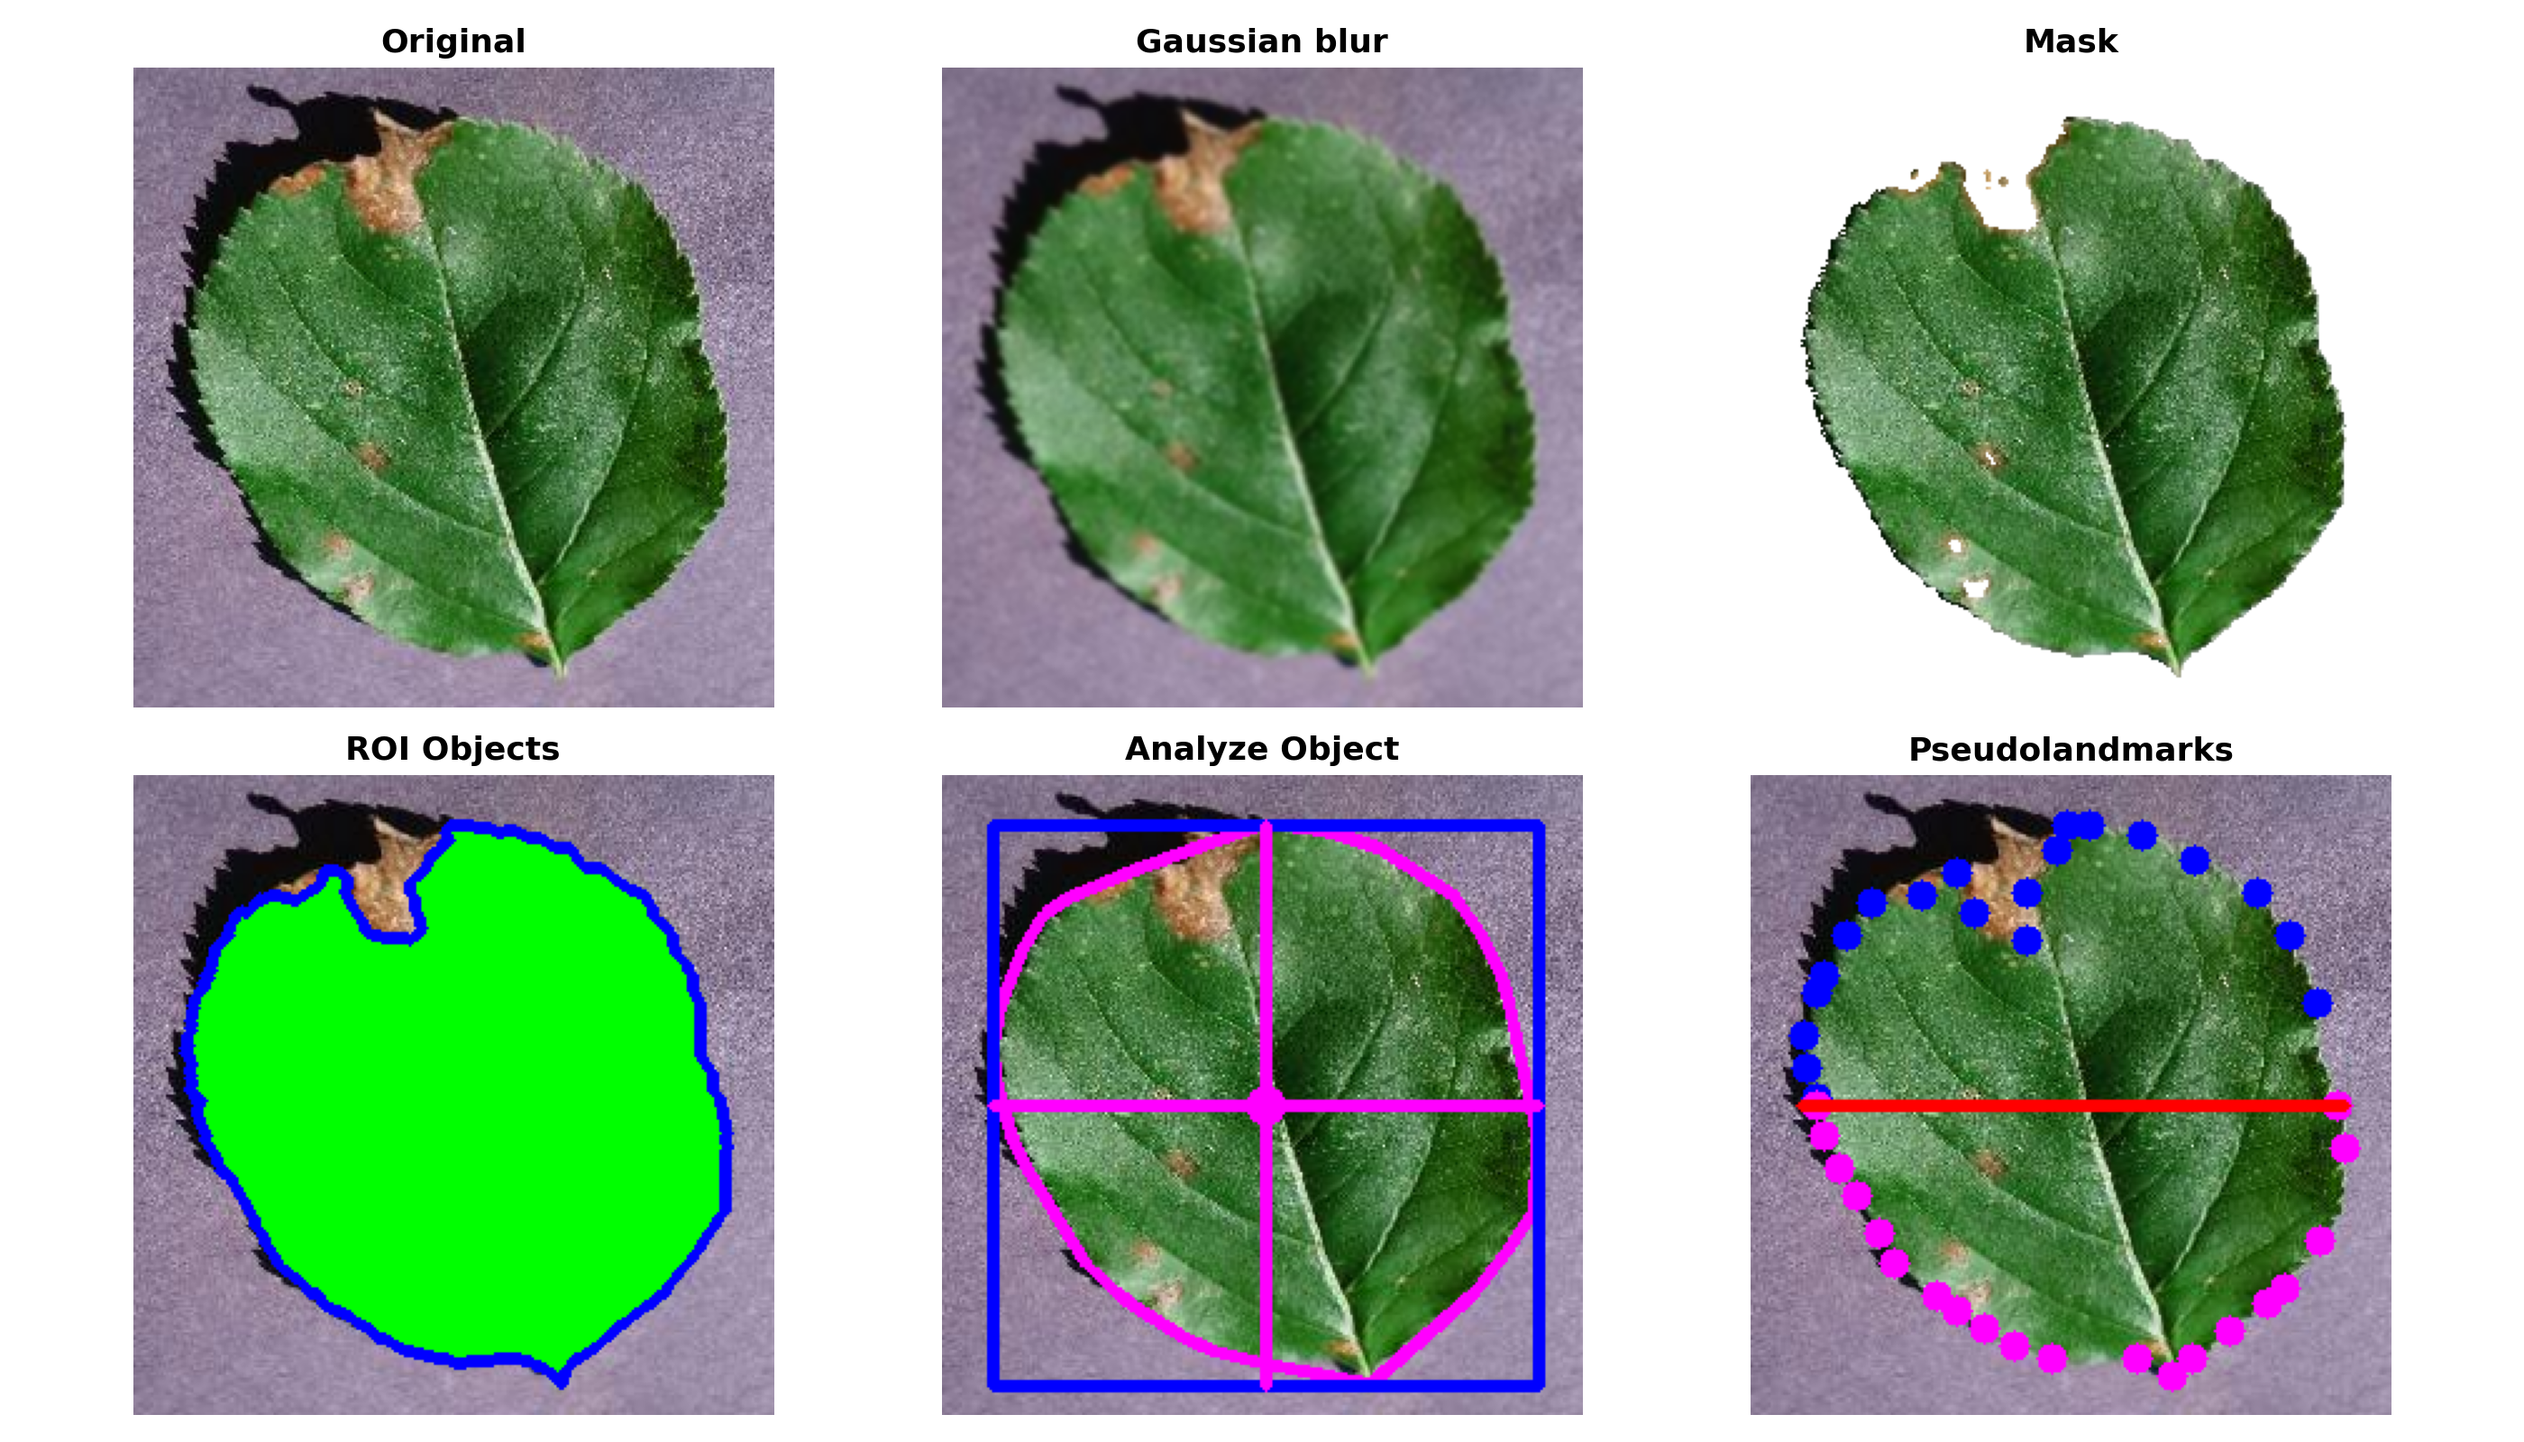
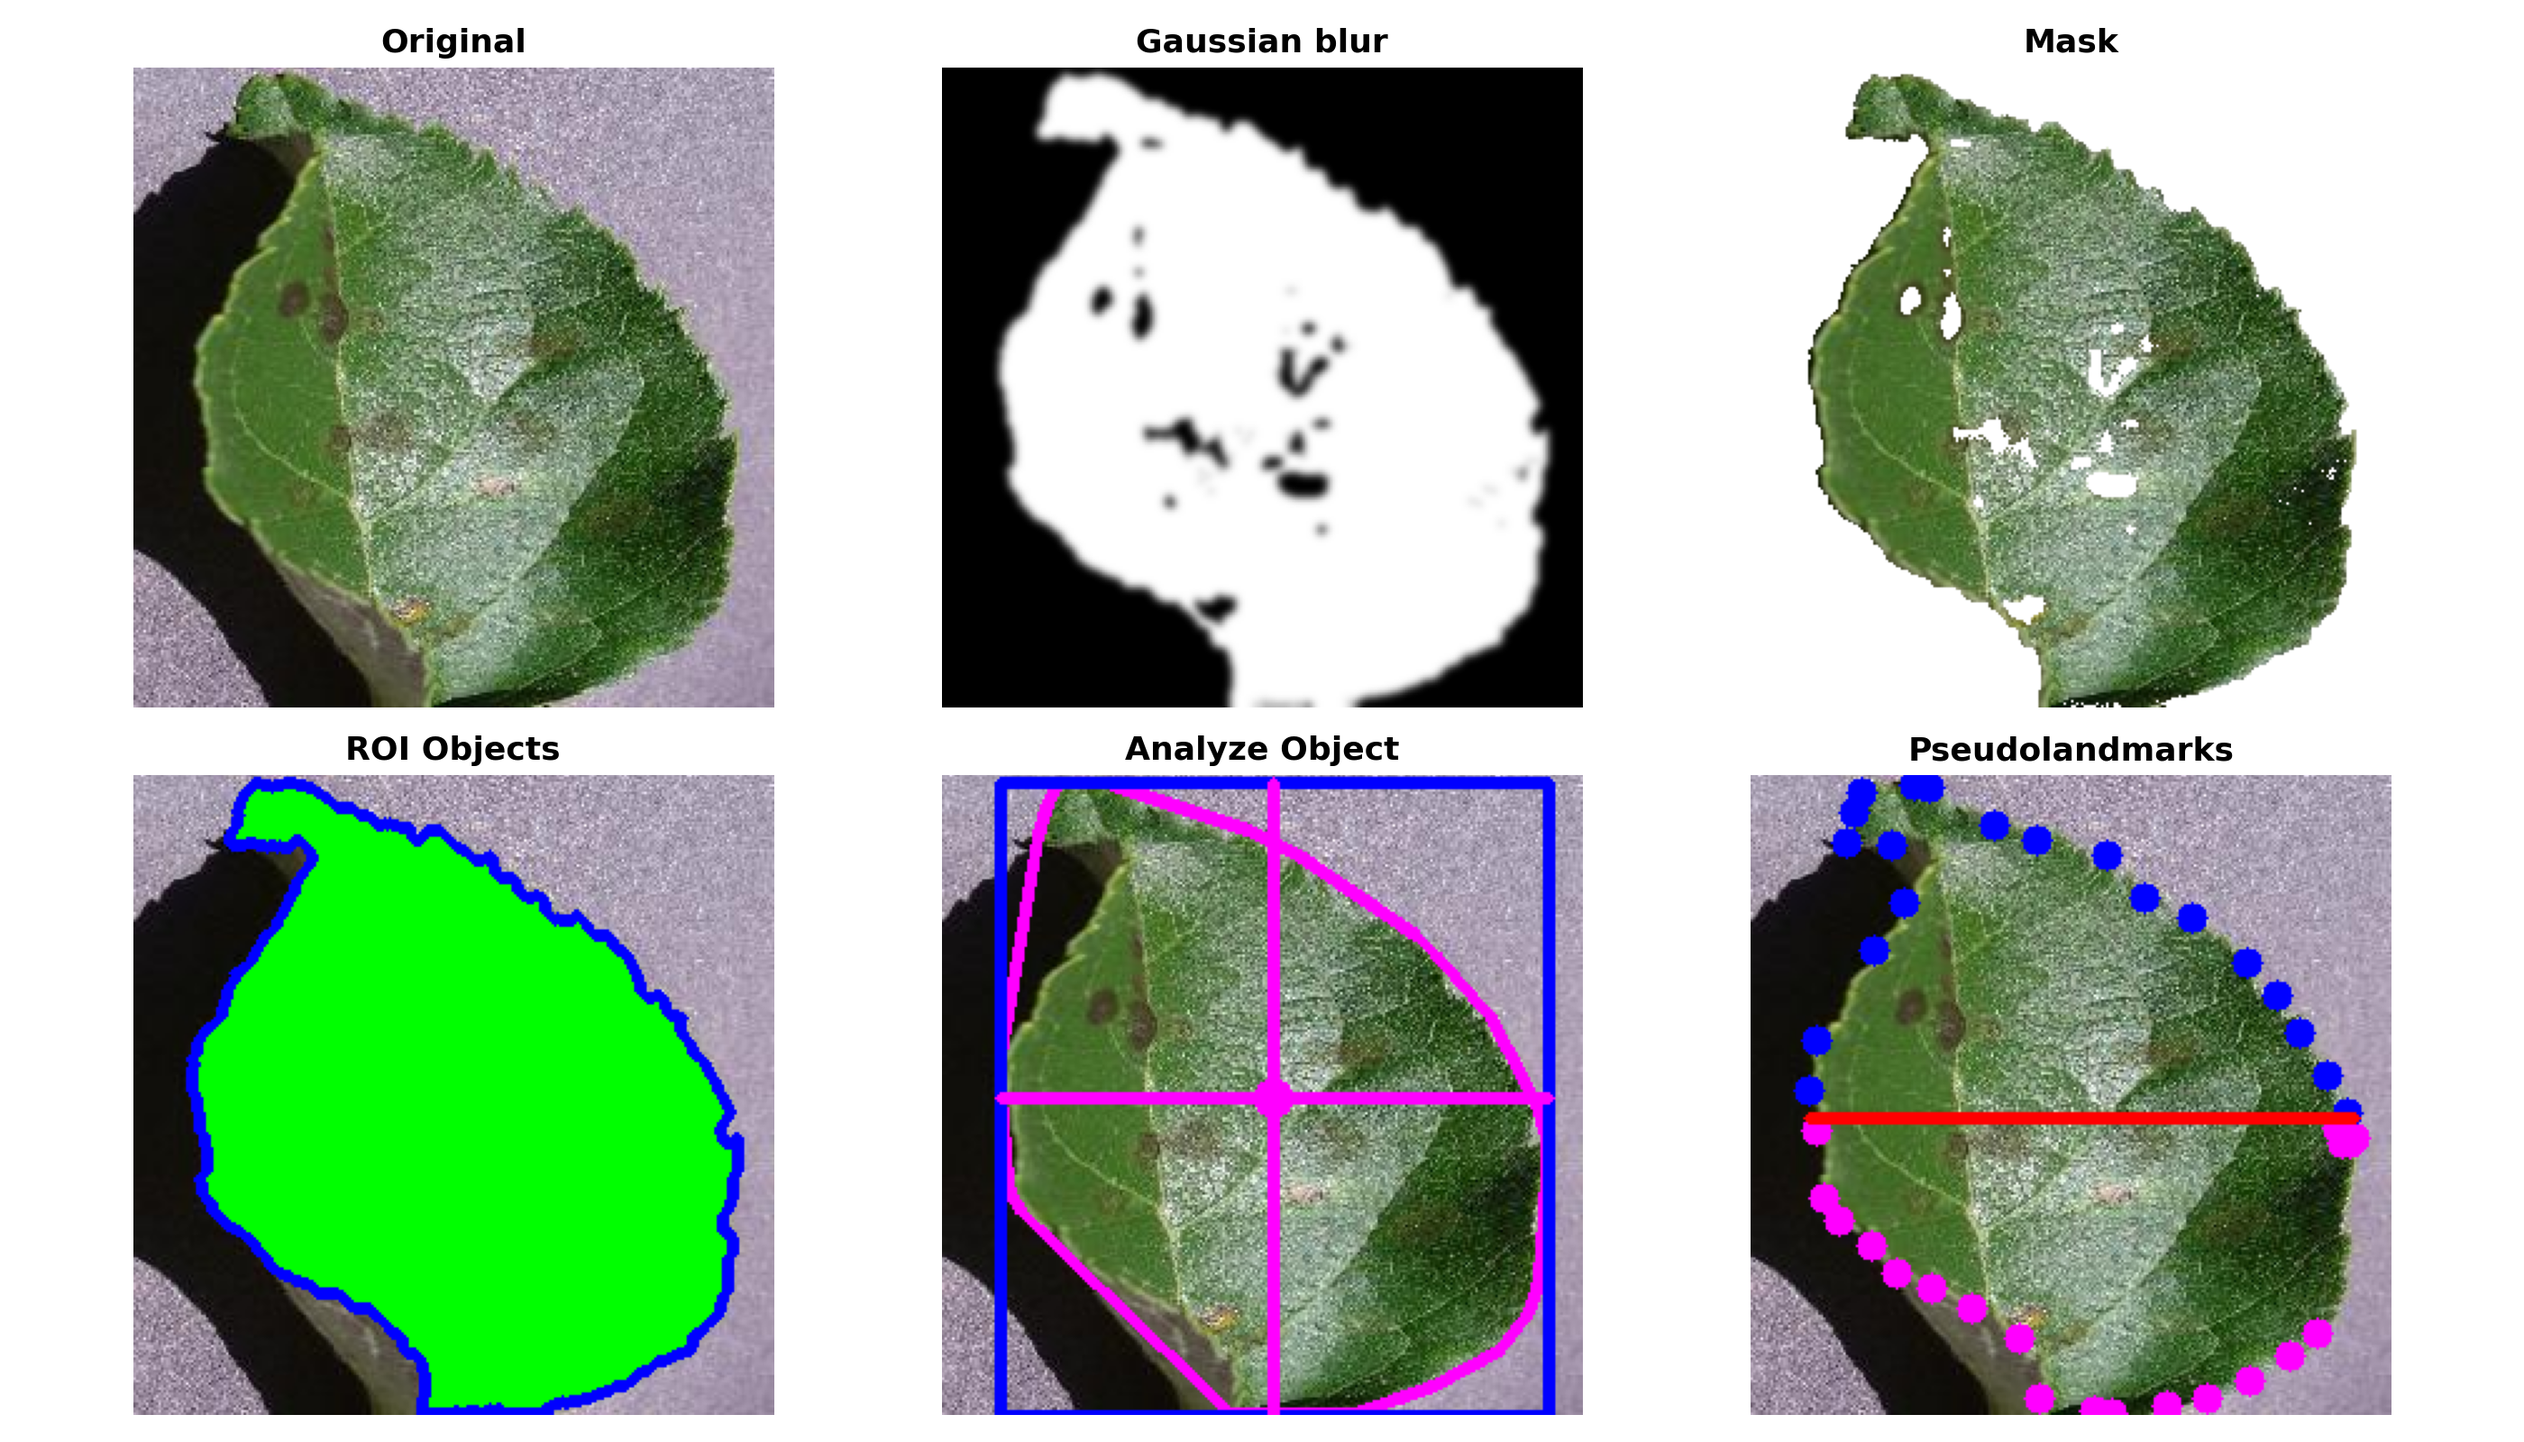
fixed the blur

diff --git a/Transformation.py b/Transformation.py
@@ -1,3 +1,4 @@
+#!/usr/bin/env python3
 import os
 import argparse
 import cv2
@@ -5,11 +6,11 @@ import numpy as np
 import matplotlib.pyplot as plt
 from plantcv import plantcv as pcv
 
+# Silence warnings
 try:
     cv2.setLogLevel(cv2.LOG_LEVEL_SILENT)
 except:
     pass
-
 
 
 def panel(ax, img, title):
@@ -22,7 +23,6 @@ def panel(ax, img, title):
     ax.set_title(title, fontsize=13, fontweight="bold")
 
 
-
 def safe_read(path):
     img = cv2.imread(path)
     if img is None:
@@ -33,16 +33,15 @@ def safe_read(path):
 def main():
 
     parser = argparse.ArgumentParser(
-        description="Leaf transformation pipeline (Clean & Error-Free)"
+        description="Leaf transformation pipeline (Correct Gaussian Blur)"
     )
     parser.add_argument("image", help="Input leaf image")
     parser.add_argument("-o", "--outdir", required=True, help="Output directory")
     args = parser.parse_args()
 
-   os.makedirs(args.outdir, exist_ok=True)
+    os.makedirs(args.outdir, exist_ok=True)
     pcv.params.debug = None
 
- 
     try:
         img, path, filename = pcv.readimage(args.image)
     except:
@@ -55,32 +54,27 @@ def main():
 
     for c in [' ', '(', ')', '[', ']', '{', '}', "'", '"', ',', ';']:
         filename = filename.replace(c, "_")
-
     cv2.imwrite(f"{args.outdir}/{filename}_01_original.png", img)
 
     try:
-        blurred = pcv.gaussian_blur(img=img, ksize=(5, 5))
-    except:
-        blurred = cv2.GaussianBlur(img, (5, 5), 0)
-
-    cv2.imwrite(f"{args.outdir}/{filename}_02_gaussian_blur.png", blurred)
-
-    try:
-        lab = cv2.cvtColor(img, cv2.COLOR_RGB2LAB)
+        lab = cv2.cvtColor(img, cv2.COLOR_BGR2LAB)
         a_channel = lab[:, :, 1]
         mask = pcv.threshold.binary(a_channel, 120, "dark")
     except:
         gray = cv2.cvtColor(img, cv2.COLOR_BGR2GRAY)
         _, mask = cv2.threshold(gray, 120, 255, cv2.THRESH_BINARY_INV)
 
+    blurred_mask = cv2.GaussianBlur(mask, (9, 9), 0)    
+    blurred = cv2.cvtColor(blurred_mask, cv2.COLOR_GRAY2BGR)
+
+    cv2.imwrite(f"{args.outdir}/{filename}_02_gaussian_blur.png", blurred)
     try:
         masked = pcv.apply_mask(img, mask, mask_color="white")
     except:
         masked = img.copy()
+        masked[mask == 0] = [255, 255, 255]
 
     cv2.imwrite(f"{args.outdir}/{filename}_03_mask.png", masked)
-
-
     try:
         cnts, _ = cv2.findContours(mask, cv2.RETR_EXTERNAL, cv2.CHAIN_APPROX_SIMPLE)
         contour = max(cnts, key=cv2.contourArea)
@@ -95,7 +89,6 @@ def main():
         pass
 
     cv2.imwrite(f"{args.outdir}/{filename}_04_roi_objects.png", roi_vis)
-
     shape_img = img.copy()
 
     try:
@@ -105,22 +98,19 @@ def main():
 
     try:
         hull = cv2.convexHull(contour)
-        hull_area = cv2.contourArea(hull)
-        solidity = area / hull_area if hull_area > 0 else 0
     except:
         hull = contour
-        solidity = 0
 
     try:
         x, y, w, h = cv2.boundingRect(contour)
-        bbox = np.array([[x,y],[x+w,y],[x+w,y+h],[x,y+h]])
     except:
         x,y,w,h = 0,0,100,100
-        bbox = np.array([[0,0],[100,0],[100,100],[0,100]])
 
     try:
         cv2.drawContours(shape_img, [hull], -1, (255,0,255), 4)
+        bbox = np.array([[x,y],[x+w,y],[x+w,y+h],[x,y+h]])
         cv2.polylines(shape_img, [bbox], True, (255,0,0), 4)
+
         cx = x + w//2
         cy = y + h//2
         cv2.circle(shape_img, (cx,cy), 8, (255,0,255), -1)
@@ -135,18 +125,27 @@ def main():
 
     try:
         pts = contour[:,0,:]
-        cy2 = y + h//2
-        top = pts[pts[:,1] < cy2]
-        bot = pts[pts[:,1] >= cy2]
+        
+        # Find the actual center Y coordinate of the contour
+        M = cv2.moments(contour)
+        if M["m00"] != 0:
+            cy_center = int(M["m01"] / M["m00"])
+        else:
+            cy_center = y + h//2        
+        top = pts[pts[:,1] < cy_center]
+        bot = pts[pts[:,1] >= cy_center]
     except:
         top = np.empty((0,2))
         bot = np.empty((0,2))
+        cy_center = 0
 
     try:
         def sample(arr):
             if len(arr) == 0: return np.empty((0,2))
-            idx = np.linspace(0, len(arr)-1, 20).astype(int)
-            return arr[idx]
+            # Sort by x-coordinate first for proper ordering
+            arr_sorted = arr[np.argsort(arr[:,0])]
+            idx = np.linspace(0, len(arr_sorted)-1, 20).astype(int)
+            return arr_sorted[idx]
 
         top_s = sample(top)
         bot_s = sample(bot)
@@ -163,7 +162,7 @@ def main():
         else:
             minx, maxx = 0, 300
 
-        cv2.line(pseudo_img, (minx,cy2), (maxx,cy2), (0,0,255), 4)
+        cv2.line(pseudo_img, (minx, cy_center), (maxx, cy_center), (0,0,255), 4)
 
     except:
         pass
